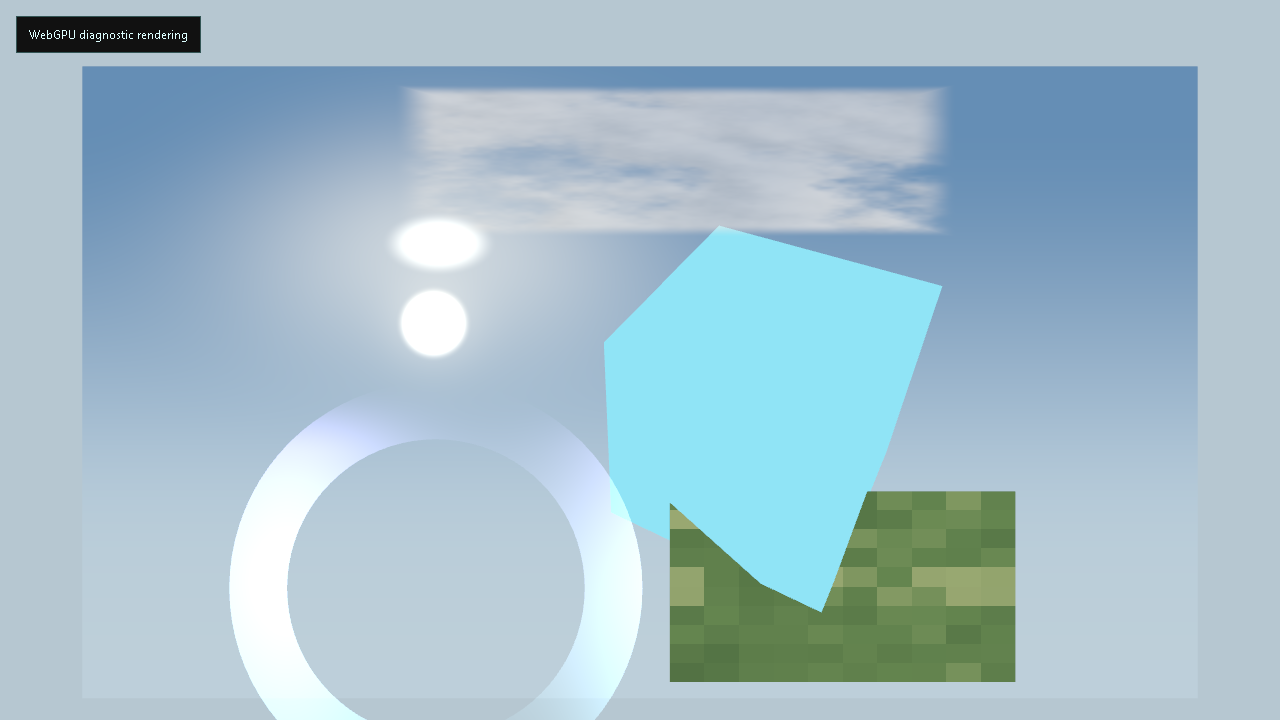
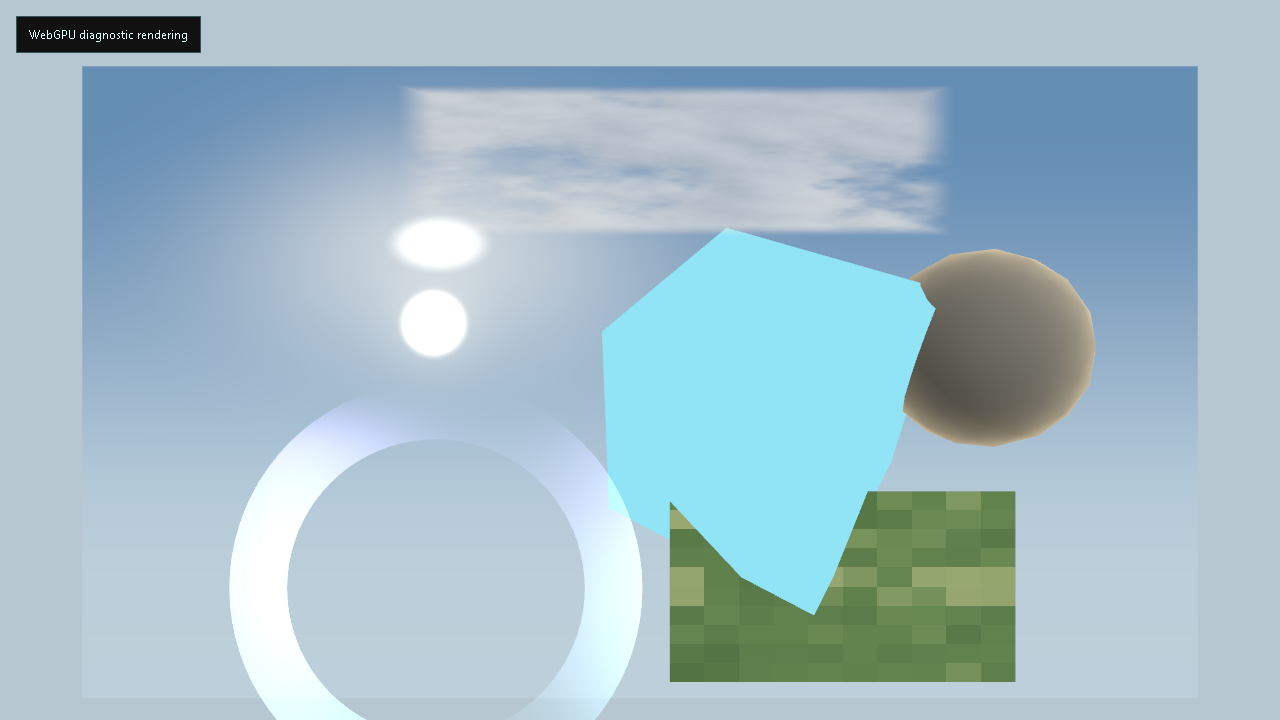
feat(konveyor): add rock rim diagnostic island

diff --git a/js/diagnostics/webgpuDiagnostic.js b/js/diagnostics/webgpuDiagnostic.js
@@ -144,6 +144,16 @@ export function createSkyFogDiagnosticState() {
     };
 }
 
+export function createRockRimDiagnosticState(skyFog = createSkyFogDiagnosticState()) {
+    return {
+        baseColor: [0.34, 0.32, 0.27],
+        rimColor: skyFog.sunColor,
+        rimStrength: 0.48,
+        rimPower: 2.0,
+        sunColorSource: 'skyFog.sunColor',
+    };
+}
+
 function createSkyFogNodeMaterial({ MeshBasicNodeMaterial, TSL }, skyFog) {
     const { float, length, mix, pow, smoothstep, uv, vec2, vec3 } = TSL;
     const skyUv = uv();
@@ -168,15 +178,31 @@ function createSkyFogNodeMaterial({ MeshBasicNodeMaterial, TSL }, skyFog) {
     return material;
 }
 
+function createRockRimNodeMaterial({ MeshStandardNodeMaterial, TSL }, rockRim) {
+    const { dot, float, max, normalize, normalView, positionView, pow, vec3 } = TSL;
+    const viewDir = normalize(positionView.negate());
+    const ndv = max(dot(viewDir, normalView), 0.0);
+    const rim = pow(float(1.0).sub(ndv), rockRim.rimPower).mul(rockRim.rimStrength);
+
+    const material = new MeshStandardNodeMaterial();
+    material.colorNode = vec3(...rockRim.baseColor);
+    material.emissiveNode = vec3(...rockRim.rimColor).mul(rim);
+    material.roughnessNode = float(0.86);
+    material.metalnessNode = float(0.0);
+    return material;
+}
+
 export async function bootWebGpuDiagnostic() {
     const skyFog = createSkyFogDiagnosticState();
+    const rockRim = createRockRimDiagnosticState(skyFog);
     const state = window.__sdsWebGpuDiagnostic = {
         ...(window.__sdsWebGpuDiagnostic || {}),
         requested: true,
         ok: false,
         renderer: 'webgpu',
-        islands: ['sun-billboard', 'portal-ring', 'meadow-quad', 'cloud-plane', 'sky-fog'],
+        islands: ['sun-billboard', 'portal-ring', 'meadow-quad', 'cloud-plane', 'sky-fog', 'rock-rim'],
         skyFog,
+        rockRim,
         frames: 0,
     };
 
@@ -216,9 +242,11 @@ export async function bootWebGpuDiagnostic() {
         BoxGeometry,
         PlaneGeometry,
         RingGeometry,
+        IcosahedronGeometry,
         Mesh,
         MeshBasicNodeMaterial,
         MeshLambertNodeMaterial,
+        MeshStandardNodeMaterial,
         Color,
         Fog,
         AmbientLight,
@@ -253,6 +281,14 @@ export async function bootWebGpuDiagnostic() {
     const cube = new Mesh(new BoxGeometry(1, 1, 1), material);
     cube.position.x = 0.55;
     scene.add(cube);
+
+    const rock = new Mesh(
+        new IcosahedronGeometry(0.42, 2),
+        createRockRimNodeMaterial({ MeshStandardNodeMaterial, TSL }, rockRim)
+    );
+    rock.position.set(1.45, 0.25, 0.05);
+    rock.rotation.set(0.25, 0.45, 0.1);
+    scene.add(rock);
 
     const skyFogBackdrop = new Mesh(
         new PlaneGeometry(7.5, 4.25, 1, 1),
@@ -305,6 +341,7 @@ export async function bootWebGpuDiagnostic() {
         if (!running) return;
         cube.rotation.x = t * 0.0006;
         cube.rotation.y = t * 0.0009;
+        rock.rotation.y = 0.45 + t * 0.00035;
         await renderer.renderAsync(scene, camera);
         state.frames += 1;
         if (state.frames === 1) {
@@ -319,6 +356,8 @@ export async function bootWebGpuDiagnostic() {
         window.removeEventListener('resize', resize);
         cube.geometry.dispose();
         material.dispose();
+        rock.geometry.dispose();
+        rock.material.dispose();
         skyFogBackdrop.geometry.dispose();
         skyFogBackdrop.material.dispose();
         portal.geometry.dispose();

diff --git a/tests/webgpu-diagnostic.spec.js b/tests/webgpu-diagnostic.spec.js
@@ -1,6 +1,9 @@
 import { describe, expect, it } from 'vitest';
 
-import { createSkyFogDiagnosticState } from '../js/diagnostics/webgpuDiagnostic.js';
+import {
+  createRockRimDiagnosticState,
+  createSkyFogDiagnosticState,
+} from '../js/diagnostics/webgpuDiagnostic.js';
 
 describe('webgpu diagnostic sky fog state', () => {
   it('keeps fog color derived from the CPU horizon sample', () => {
@@ -11,5 +14,14 @@ describe('webgpu diagnostic sky fog state', () => {
       state.horizonColor.map((v) => Number((v * state.fogDarkenMultiplier).toFixed(4)))
     );
     expect(state.fogNear).toBeLessThan(state.fogFar);
+  });
+
+  it('drives the diagnostic rock rim from the CPU sun color packet', () => {
+    const skyFog = createSkyFogDiagnosticState();
+    const rockRim = createRockRimDiagnosticState(skyFog);
+    expect(rockRim.rimColor).toBe(skyFog.sunColor);
+    expect(rockRim.sunColorSource).toBe('skyFog.sunColor');
+    expect(rockRim.rimStrength).toBeGreaterThan(0);
+    expect(rockRim.rimPower).toBeGreaterThan(1);
   });
 });

diff --git a/docs/archive/research/konveyor-shader-surface-inventory-2026-05-14.md b/docs/archive/research/konveyor-shader-surface-inventory-2026-05-14.md
@@ -14,8 +14,10 @@ The safest first production-adjacent island was `SunBillboard`: it is small,
 cosmetic, has no scene data dependency, and maps cleanly to a
 `MeshBasicNodeMaterial`/TSL expression. The sun billboard, portal ring,
 meadow-quad, cloud-plane, and sky/fog formulas are now ported inside the
-diagnostic island only. Do not start production wiring with terrain, grass,
-water, sheep, or Kiln impostors.
+diagnostic island only. The rock-rim fresnel formula is also ported as a
+diagnostic `MeshStandardNodeMaterial` island driven by the CPU sky/fog sun
+color packet. Do not start production wiring with terrain, grass, water, sheep,
+or Kiln impostors.
 
 ## Active ShaderMaterial Surfaces
 
@@ -37,7 +39,7 @@ water, sheep, or Kiln impostors.
 | Patch | File | Mutated material | Why it matters | WebGPU migration note |
 |---|---|---|---|---|
 | Tree wind plus occluder fade | `js/world/shaderPatches.js`, `js/shaders/OccluderFadePatch.js` | Tree GLB leaf `MeshStandardMaterial` instances. | Adds wind sway, alpha hash, and camera-to-dog dither fade. | Replace with NodeMaterial/TSL leaf material or a GLB material normalization pass. Cannot carry `onBeforeCompile` into WebGPU. |
-| Rock rim light | `js/world/shaderPatches.js` | Rock GLB materials. | Adds stylized fresnel rim keyed to atmosphere sun color. | Good later TSL island after sun/portal/meadow, because it is small but depends on GLB material ownership. |
+| Rock rim light | `js/world/shaderPatches.js` | Rock GLB materials. | Adds stylized fresnel rim keyed to atmosphere sun color. | Formula now exists in the diagnostic TSL harness as `MeshStandardNodeMaterial`; production wiring still needs GLB material ownership and replacement strategy for the current patch chain. |
 | Meadow quad tint | `js/GrassSystem.js` | Far-ring `MeshLambertMaterial`. | Replaces flat distant grass with UV-noise color variance. | Formula now exists in the diagnostic TSL harness as `MeshLambertNodeMaterial`. Production wiring still needs fog and far-ring screenshots. |
 
 ## Dormant Or Supporting Surfaces
@@ -53,8 +55,9 @@ water, sheep, or Kiln impostors.
 
 ## Recommended Migration Order
 
-1. Prototype rock rim or tree-leaf wind only after GLB material ownership is
-   explicit; both depend on current `onBeforeCompile` patch chains.
+1. Prototype tree-leaf wind and occluder ownership only after GLB material
+   ownership is explicit; it depends on current `onBeforeCompile` patch chains
+   and is the next small island after rock rim.
 2. Keep sky/fog production wiring behind parity evidence for analytic colors,
    preset screenshots, and fog consumers.
 3. Defer terrain, water, blade grass, sheep, and Kiln impostors until the

diff --git a/docs/konveyor-autonomous-run.md b/docs/konveyor-autonomous-run.md
@@ -72,7 +72,8 @@ WebGPU now has a diagnostic island, not a production renderer:
 - [`archive/research/konveyor-shader-surface-inventory-2026-05-14.md`](archive/research/konveyor-shader-surface-inventory-2026-05-14.md)
   ranks the current GLSL and `onBeforeCompile` migration surface. The sun
   billboard, portal ring, meadow-quad, cloud-plane, and sky/fog formulas are
-  now ported inside the diagnostic island.
+  now ported inside the diagnostic island. The rock-rim fresnel formula is
+  also ported as the first `onBeforeCompile` replacement island.
 - [`archive/research/konveyor-atmosphere-ownership-2026-05-14.md`](archive/research/konveyor-atmosphere-ownership-2026-05-14.md)
   pins sky, fog, sun-color, and cloud ownership before cloud/sky WebGPU work.
 - [`../cycle36-validation/runtime/webgpu-diagnostic-islands-chrome.png`](../cycle36-validation/runtime/webgpu-diagnostic-islands-chrome.png)
@@ -87,10 +88,11 @@ one material system at a time.
 Recommended order:
 
 1. **Pick the next smallest production-adjacent material island.** The sky/fog
-   diagnostic prototype now preserves a CPU-accessible horizon/sun/fog packet.
-   Prefer a rock-rim or tree-leaf ownership spike next; both are smaller than
-   terrain, water, blade grass, sheep, or Kiln impostors but still exercise the
-   `onBeforeCompile` replacement problem.
+   diagnostic prototype now preserves a CPU-accessible horizon/sun/fog packet,
+   and the rock-rim TSL prototype now covers the smallest
+   `onBeforeCompile` replacement formula. Prefer a tree-leaf ownership spike
+   next, because it combines GLB material ownership, wind displacement,
+   alpha-hash posture, and camera-to-dog occluder fade.
 2. **Keep measurement attached to every change.** Run the relevant perf,
    latency, screenshot, test, lint, and build gates before claiming progress.
 3. **Advance through the Konveyor phase outline.** Keep moving from cosmetic

diff --git a/progress.md b/progress.md
@@ -24,3 +24,4 @@ Current prompt for the next autonomous run: /goal On branch exp/konveyor-webgpu-
 - 2026-05-14: Pinned atmosphere ownership before cloud/sky migration in `docs/archive/research/konveyor-atmosphere-ownership-2026-05-14.md` and added tests for horizon-driven fog color, scene fog distance preservation, and cloud sun-color handoff.
 - 2026-05-14: Ported a diagnostic cloud-plane TSL material covering value-noise/fbm mask, sun tint, coverage, footprint fade, and time input. Evidence now reports `islands: ["sun-billboard", "portal-ring", "meadow-quad", "cloud-plane"]`; default production-preview evidence still reports `diagnostic: null`.
 - 2026-05-14: Ported a diagnostic sky/fog TSL backdrop and exposed a CPU-visible `skyFog` packet with horizon, zenith, sun, fog color, and fog distances. Evidence now reports `islands: ["sun-billboard", "portal-ring", "meadow-quad", "cloud-plane", "sky-fog"]`; default production-preview evidence still reports `diagnostic: null`.
+- 2026-05-14: Ported the rock-rim fresnel formula into a diagnostic `MeshStandardNodeMaterial` island driven by `skyFog.sunColor`. Evidence now reports `islands: ["sun-billboard", "portal-ring", "meadow-quad", "cloud-plane", "sky-fog", "rock-rim"]`; default production-preview evidence still reports `diagnostic: null`.

diff --git a/docs/konveyor-sds.md b/docs/konveyor-sds.md
@@ -50,7 +50,7 @@ As of 2026-05-14, SDS is not a WebGPU project yet.
   copied Three WebGPU/Core browser modules after the query flag and leaves the
   normal WebGL bundle path as default. Current diagnostic islands cover the sun
   billboard, portal ring, meadow quad, cloud plane, and a sky/fog CPU sample
-  packet.
+  packet, plus the rock-rim fresnel formula.
 - The deterministic `shared/` boundary is unchanged. Konveyor is a rendering,
   packaging, and performance campaign unless a cycle explicitly authorizes a
   shared-sim change.
